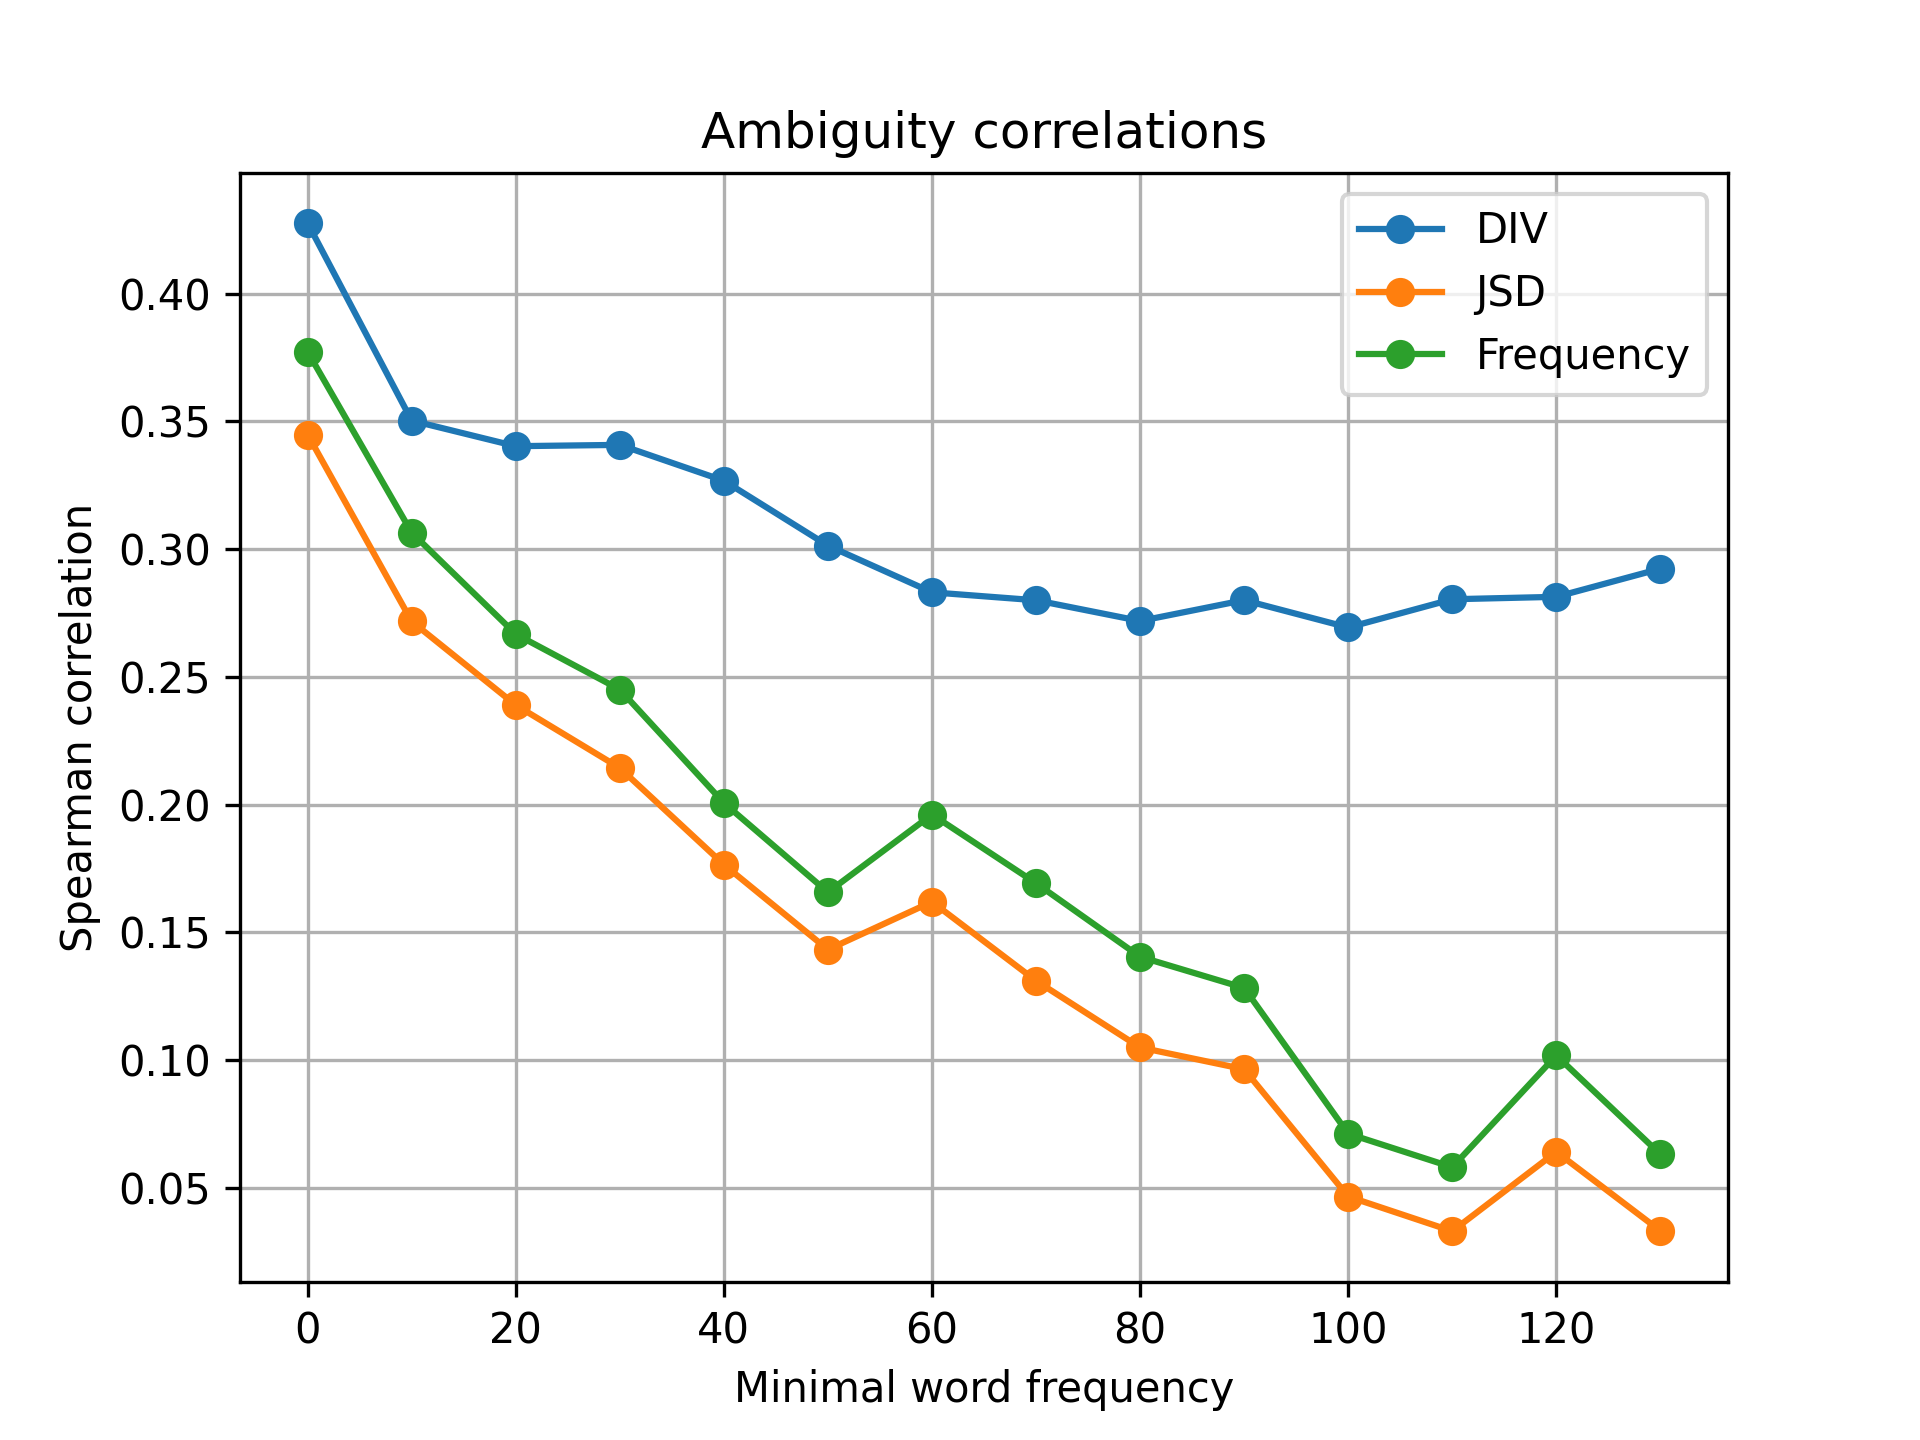
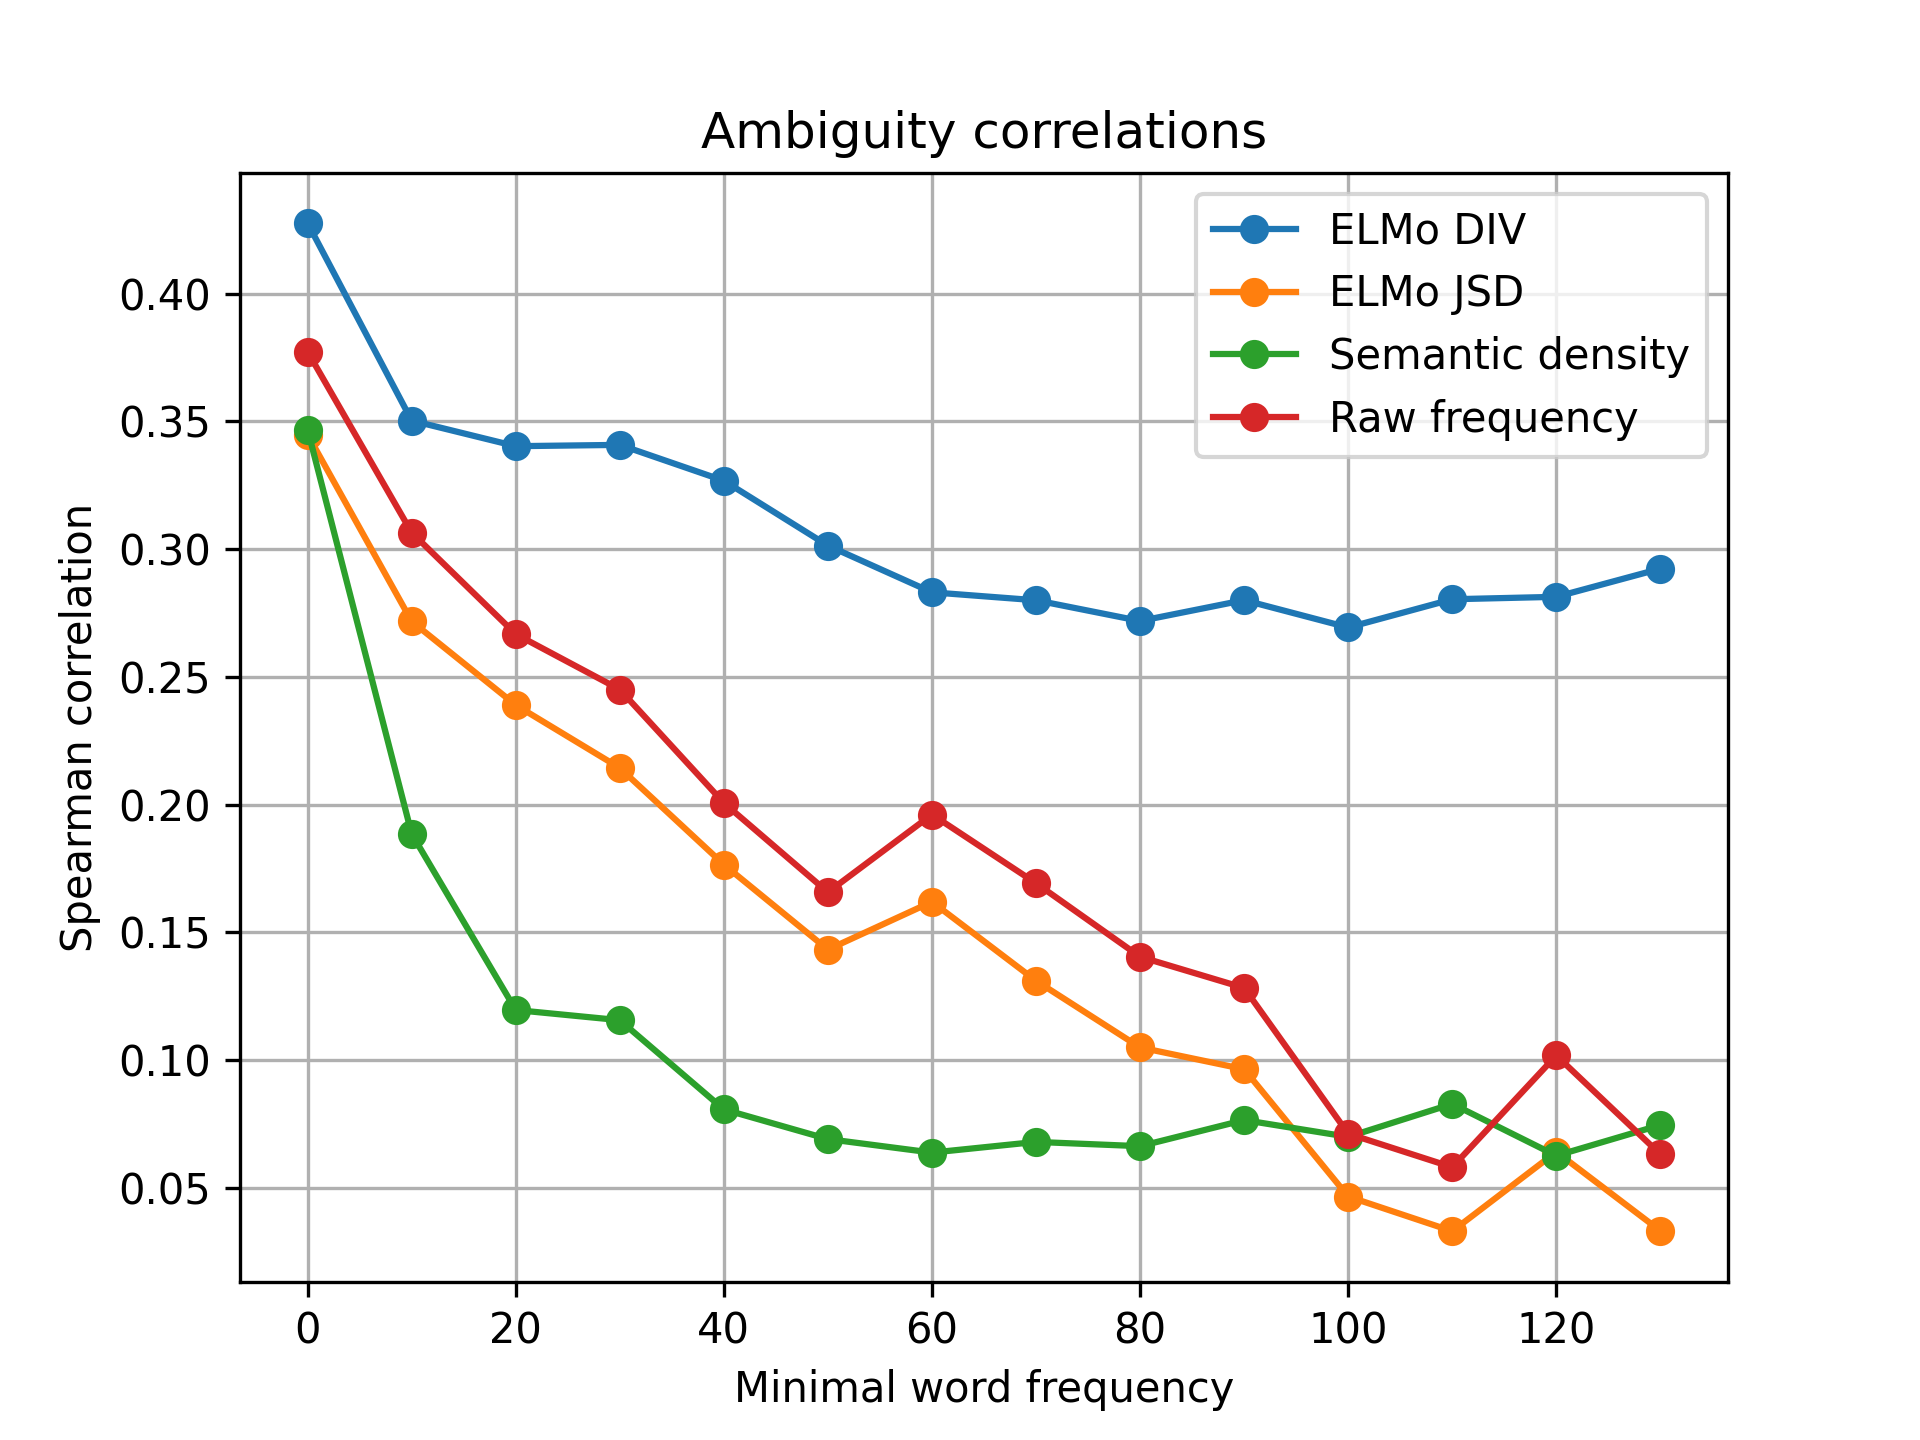
LSI correlations

diff --git a/process_vectors.py b/process_vectors.py
@@ -21,6 +21,7 @@ if __name__ == '__main__':
 
     diversity_scores = []
     jsd_scores = []
+    density_scores = []
     freq_scores = []
 
     for l in limits:
@@ -29,6 +30,10 @@ if __name__ == '__main__':
 
         diversity_degrees = [float(data[w]['Diversity']) for w in words]
         cluster_degrees = [float(data[w]['Clusters']) for w in words]
+
+        # Convert similarities back to distances:
+        density_degrees = [1 - float(data[w]['Density']) for w in words]
+
         frequencies = [float(data[w]['Frequency']) for w in words]
         wfrequencies = [float(data[w]['WikiFreq']) for w in words]
         nr_synsets = [float(data[w]['Synsets']) for w in words]
@@ -39,15 +44,19 @@ if __name__ == '__main__':
         print('Spearman correlation between cluster number and the number of WordNet synsets: '
               '%.4f, %.4f' % spearmanr(cluster_degrees, nr_synsets))
         jsd_scores.append(spearmanr(cluster_degrees, nr_synsets)[0])
+        print('Spearman correlation between semantic density and the number of WordNet synsets: '
+              '%.4f, %.4f' % spearmanr(density_degrees, nr_synsets))
+        density_scores.append(spearmanr(density_degrees, nr_synsets)[0])
         print('Spearman correlation between SensEval frequency and the number of WordNet synsets: '
               '%.4f, %.4f' % spearmanr(frequencies, nr_synsets))
         freq_scores.append(spearmanr(frequencies, nr_synsets)[0])
         print('Spearman correlation between Wikipedia frequency and the number of WordNet synsets: '
               '%.4f, %.4f' % spearmanr(wfrequencies, nr_synsets))
 
-    ax.plot(limits, diversity_scores, label='DIV', marker='o')
-    ax.plot(limits, jsd_scores, label='JSD', marker='o')
-    ax.plot(limits, freq_scores, label='Frequency', marker='o')
+    ax.plot(limits, diversity_scores, label='ELMo DIV', marker='o')
+    ax.plot(limits, jsd_scores, label='ELMo JSD', marker='o')
+    ax.plot(limits, density_scores, label='Semantic density', marker='o')
+    ax.plot(limits, freq_scores, label='Raw frequency', marker='o')
     ax.set(xlabel='Minimal word frequency', ylabel='Spearman correlation',
            title='Ambiguity correlations')
     ax.grid()

diff --git a/get_coeffs.py b/get_coeffs.py
@@ -2,8 +2,6 @@
 # coding: utf-8
 
 import argparse
-import sys
-import logging
 from nltk.corpus import wordnet as wn
 from elmo_helpers import *
 
@@ -19,7 +17,8 @@ if __name__ == '__main__':
     args = parser.parse_args()
 
     data_path = args.input
-    target_words = {w.split('\t')[0].strip(): int(w.split('\t')[1]) for w in open(args.target, 'r', encoding='utf-8').readlines()}
+    target_words = {w.split('\t')[0].strip(): int(w.split('\t')[1]) for w in
+                    open(args.target, 'r', encoding='utf-8').readlines()}
 
     array = np.load(data_path)
     logger.info('Loaded an array of %d entries from %s' % (len(array), data_path))
@@ -39,5 +38,6 @@ if __name__ == '__main__':
         diversity_coeff = diversity(vectors)
         nr_clusters = cluster(vectors, 'affinity', word)[0]
         synsets = len(wn.synsets(word))
-        print('\t'.join([word, str(target_words[word]), str(diversity_coeff), str(nr_clusters), str(synsets)]), file=f_out)
+        print('\t'.join([word, str(target_words[word]), str(diversity_coeff), str(nr_clusters),
+                         str(synsets)]), file=f_out)
 

diff --git a/stats.py b/stats.py
@@ -40,17 +40,17 @@ if __name__ == '__main__':
 
     frequencies = {w: sum(frequencies[w]) for w in frequencies}
 
-    TOP = 15
-    sorted_changes = [d for d in sorted(changes, key=itemgetter(2), reverse=True)]
+    TOP = 25
+    sorted_changes = [d for d in sorted(changes, key=itemgetter(2), reverse=True) if frequencies[d[0]] > 1000]
     logger.info('Word\tDecades\tDegree\tFrequency')
     logger.info('=============')
     logger.info('Top {} with the strongest change:'.format(TOP))
     for i in sorted_changes[:TOP]:
-        logger.info('{}\t{}\t{}\t{}'.format(i[0], i[1], i[2], frequencies[i[0]]))
+        logger.info('{}\t{}\t{}\t{}'.format(i[0], i[1], round(i[2], 4), frequencies[i[0]], 4))
     logger.info('=============')
     logger.info('Top {} with the weakest change:'.format(TOP))
     for i in sorted_changes[-TOP:]:
-        logger.info('{}\t{}\t{}\t{}'.format(i[0], i[1], i[2], frequencies[i[0]]))
+        logger.info('{}\t{}\t{}\t{}'.format(i[0], i[1], round(i[2], 4), frequencies[i[0]], 4))
     logger.info('=============')
     year_changes = {}
     for el in changes:

diff --git a/use_lsi_synchro.py b/use_lsi_synchro.py
@@ -78,15 +78,14 @@ if __name__ == '__main__':
                 cv = extract_context(target, line, model, WINDOW)
                 data[target][0].append(cv)
 
-
     logger.info('Calculating densities...')
     for word in target_words:
         if len(data[word][0]) < 1:
-            # logger.info('%s omitted because of low frequency' % word)
-            print('\t'.join([word, '10']), file=f_out)
+            logger.info('%s omitted because of low frequency' % word)
+            print('{}\t10'.format(word), file=f_out)
             continue
-        vectors = np.stack(data[word][0], axis=0)
-        distances = cdist(vectors, vectors, metric='cosine')
+        w_vectors = np.stack(data[word][0], axis=0)
+        distances = cdist(w_vectors, w_vectors, metric='cosine')
         similarities = [1 - x for x in distances]
         data[word]['density0'] = np.mean(similarities)
         print('{}\t{}'.format(word, data[word]['density0']), file=f_out)

diff --git a/elmo_helpers.py b/elmo_helpers.py
@@ -9,7 +9,6 @@ import tensorflow as tf
 from bilm import Batcher, BidirectionalLanguageModel, weight_layers
 from sklearn import preprocessing
 import json
-from scipy.stats import entropy
 from scipy.spatial.distance import cosine
 from sklearn.cluster import DBSCAN, AffinityPropagation
 import logging
